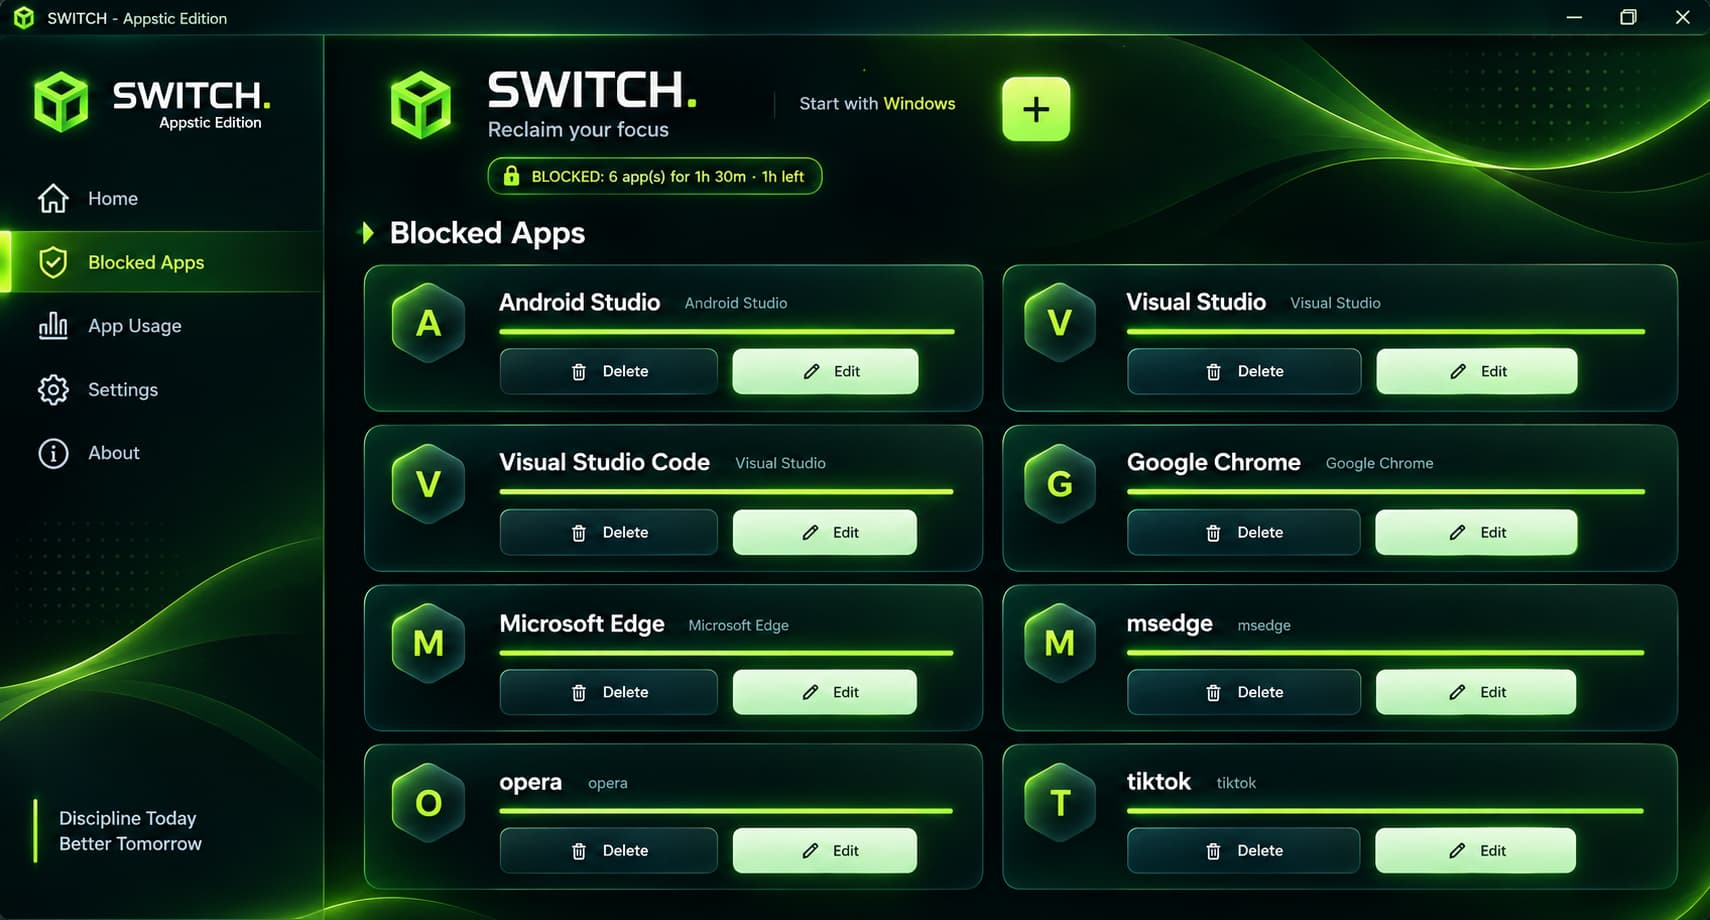
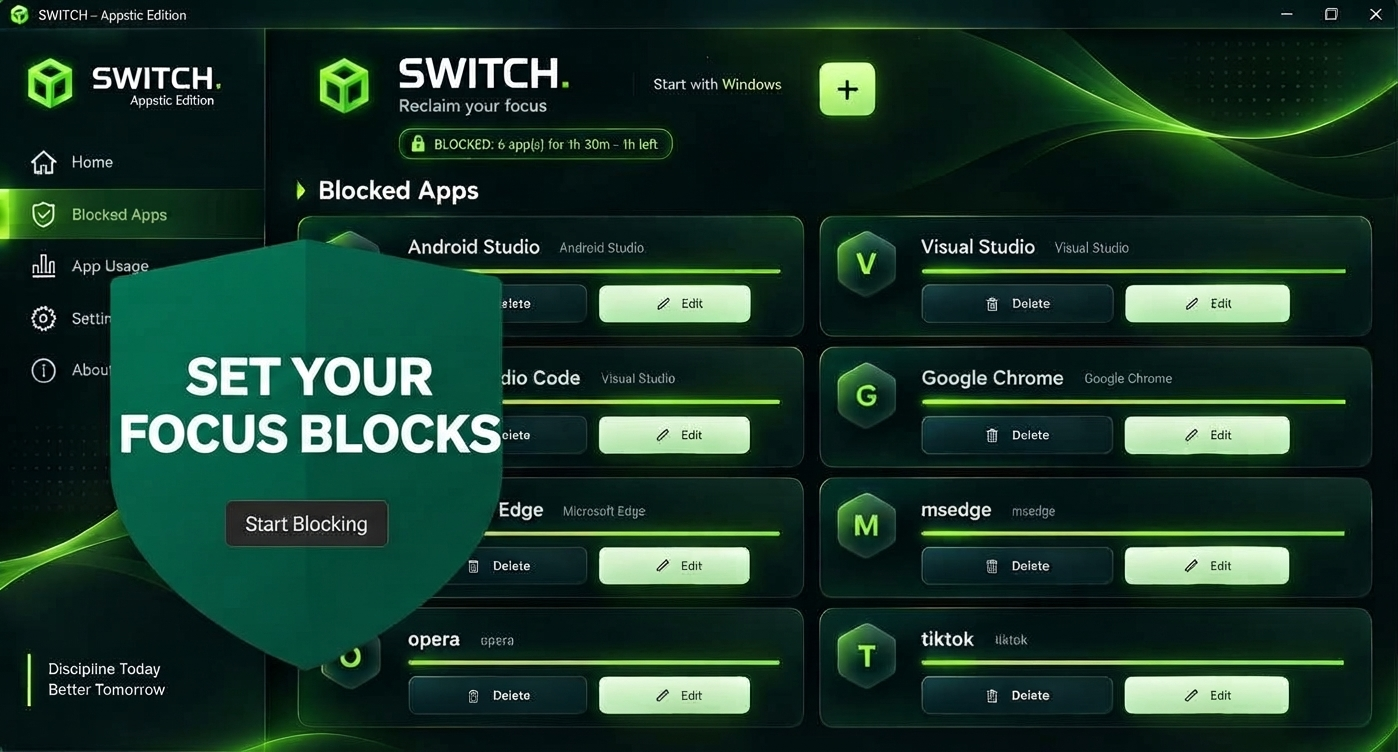
updated second hero image and the section 2  heading

diff --git a/src/Components/Hero.jsx b/src/Components/Hero.jsx
@@ -10,7 +10,6 @@ const slides = [
   },
   {
     image: switchAppBg,
-    title: "SET YOUR FOCUS BLOCKS",
     isAppView: true,
   },
   {
@@ -39,11 +38,12 @@ const Hero = () => {
   }, []);
 
   const slide = slides[currentStep];
+  const isSecondSlide = currentStep === 1;
 
   return (
     <section className="relative flex min-h-screen w-full items-end justify-start overflow-hidden pb-16 pl-8 lg:pl-20 pt-20 bg-black">
 
-      {/* 1. CLEAN BACKGROUND (NO GLOBAL DARKENING) */}
+      {/* 1. BACKGROUND WITH PULLED-BACK ZOOM FOR THE APP VIEW */}
       <div className="absolute inset-0 z-0 overflow-hidden bg-black">
         {slides.map((s, index) => (
           <div
@@ -54,55 +54,72 @@ const Hero = () => {
             <img
               src={s.image}
               alt="Switch Background"
-              className="h-full w-full object-cover object-center scale-110"
+              className={`h-full w-full object-cover object-center transition-transform duration-1000 ${index === 1 ? "scale-95" : "scale-110"
+                }`}
             />
           </div>
         ))}
       </div>
 
-      {/* 2. LOCALIZED FROSTED CONTAINER (ONLY AFFECTS TEXT AREA) */}
-      <div
-        className="relative z-30 p-8 sm:p-14 max-w-5xl bg-emerald-950/20 backdrop-blur-md border-l border-emerald-500/20"
-        style={{
-          maskImage: "radial-gradient(circle at 30% 50%, black 30%, rgba(0,0,0,0.6) 60%, transparent 90%)",
-          WebkitMaskImage: "radial-gradient(circle at 30% 50%, black 30%, rgba(0,0,0,0.6) 60%, transparent 90%)",
-        }}
-      >
-
-        {/* Brand Logo Header Badge */}
-        <div className="flex items-center gap-3 mb-6 transition-all duration-500">
-          <div className="w-10 h-10 rounded-2xl bg-white/10 backdrop-blur-xl border border-white/20 flex items-center justify-center shadow-lg">
-            <span className="text-emerald-400 font-black text-base tracking-tighter">S</span>
+      {/* 2. DYNAMIC TEXT CONTAINER (ONLY FOR SLIDE 1 & 3) */}
+      {!isSecondSlide && (
+        <div
+          className="relative z-30 p-8 sm:p-14 transition-all duration-700 bg-emerald-950/20 backdrop-blur-md border-l border-emerald-500/20 max-w-5xl"
+          style={{
+            maskImage: "radial-gradient(circle at 30% 50%, black 30%, rgba(0,0,0,0.6) 60%, transparent 90%)",
+            WebkitMaskImage: "radial-gradient(circle at 30% 50%, black 30%, rgba(0,0,0,0.6) 60%, transparent 90%)",
+          }}
+        >
+          {/* Brand Logo Header Badge */}
+          <div className="flex items-center gap-3 mb-6 transition-all duration-500">
+            <div className="w-10 h-10 rounded-2xl bg-white/15 backdrop-blur-xl border border-white/20 flex items-center justify-center shadow-lg">
+              <span className="text-emerald-400 font-black text-base tracking-tighter">S</span>
+            </div>
+            <span className="text-white font-black tracking-widest text-sm font-mono [text-shadow:_0_2px_12px_rgb(0_0_0_/_90%)]">
+              SWITCH
+            </span>
           </div>
-          <span className="text-white font-black tracking-widest text-sm font-mono [text-shadow:_0_2px_12px_rgb(0_0_0_/_90%)]">
-            SWITCH
-          </span>
-        </div>
 
-        {/* Title Swap */}
-        <div className="transition-all duration-700 ease-out">
-          <h1 className={`font-black uppercase tracking-[-0.04em] text-white drop-shadow-[0_10px_30px_rgba(0,0,0,0.9)] ${slide.isAppView ? "text-[clamp(2.5rem,7vw,7rem)] leading-[0.9]" : "text-[clamp(3rem,9vw,9.5rem)] leading-[0.85]"
-            }`}>
-            {slide.title}
-          </h1>
-        </div>
+          {/* Title Swap */}
+          <div className="transition-all duration-700 ease-out">
+            <h1 className="font-black uppercase tracking-[-0.04em] text-white drop-shadow-[0_10px_30px_rgba(0,0,0,0.9)] text-[clamp(3rem,9vw,9.5rem)] leading-[0.85]">
+              {slide.title}
+            </h1>
+          </div>
 
-        {/* Download Button */}
-        <div className="mt-8 flex items-center gap-4">
+          {/* Download Button */}
+          <div className="mt-8 flex items-center gap-4">
+            <a
+              href="https://github.com/chukstechstack/SwitchInstaller/releases/latest/download/SwitchInstaller.msi"
+              download
+              className="group relative inline-flex items-center gap-3 rounded-2xl bg-white/10 backdrop-blur-xl border border-white/25 px-8 py-5 text-sm font-black uppercase tracking-wider text-white shadow-2xl transition-all duration-300 hover:bg-emerald-400 hover:text-black hover:border-emerald-300 hover:scale-[1.02] overflow-hidden"
+            >
+              <span className="absolute inset-0 bg-gradient-to-r from-white/0 via-white/20 to-white/0 translate-x-[-100%] group-hover:translate-x-[100%] transition-transform duration-700" />
+              <span className="relative z-10">Download for PC </span>
+              <svg className="relative z-10 h-4 w-4 text-emerald-300 transition-colors duration-300 group-hover:text-black" fill="none" viewBox="0 0 24 24" stroke="currentColor">
+                <path strokeLinecap="round" strokeLinejoin="round" strokeWidth={3} d="M4 16v1a3 3 0 003 3h10a3 3 0 003-3v-1m-4-4l-4 4m0 0l-4-4m4 4V4" />
+              </svg>
+            </a>
+          </div>
+        </div>
+      )}
+
+      {/* 3. DOWNLOAD BUTTON FOR SECOND SLIDE (FITS OVER THE CLEAN IMAGE) */}
+      {isSecondSlide && (
+        <div className="absolute bottom-16 left-8 lg:left-20 z-30 flex items-center gap-4 transition-all duration-700">
           <a
             href="https://github.com/chukstechstack/SwitchInstaller/releases/latest/download/SwitchInstaller.msi"
             download
-            className="group relative inline-flex items-center gap-3 rounded-2xl bg-white/10 backdrop-blur-xl border border-white/25 px-8 py-5 text-sm font-black uppercase tracking-wider text-white shadow-2xl transition-all duration-300 hover:bg-emerald-400 hover:text-black hover:border-emerald-300 hover:scale-[1.02] overflow-hidden"
+            className="group relative inline-flex items-center gap-3 rounded-2xl bg-black/40 backdrop-blur-xl border border-white/25 px-8 py-5 text-sm font-black uppercase tracking-wider text-white shadow-2xl transition-all duration-300 hover:bg-emerald-400 hover:text-black hover:border-emerald-300 hover:scale-[1.02] overflow-hidden"
           >
             <span className="absolute inset-0 bg-gradient-to-r from-white/0 via-white/20 to-white/0 translate-x-[-100%] group-hover:translate-x-[100%] transition-transform duration-700" />
-            <span className="relative z-10">Download for PC (.msi)</span>
+            <span className="relative z-10">Download for PC </span>
             <svg className="relative z-10 h-4 w-4 text-emerald-300 transition-colors duration-300 group-hover:text-black" fill="none" viewBox="0 0 24 24" stroke="currentColor">
               <path strokeLinecap="round" strokeLinejoin="round" strokeWidth={3} d="M4 16v1a3 3 0 003 3h10a3 3 0 003-3v-1m-4-4l-4 4m0 0l-4-4m4 4V4" />
             </svg>
           </a>
         </div>
-
-      </div>
+      )}
 
       {/* Pagination Dots */}
       <div className="absolute bottom-6 right-8 z-30 flex gap-2">
@@ -110,7 +127,9 @@ const Hero = () => {
           <button
             key={dotIndex}
             onClick={() => setCurrentStep(dotIndex === 0 ? 0 : 1)}
-            className={`h-1.5 rounded-full transition-all duration-500 ${(currentStep === dotIndex) || (currentStep === 2 && dotIndex === 0) ? "w-8 bg-white" : "w-2 bg-white/40"
+            className={`h-1.5 rounded-full transition-all duration-500 ${(currentStep === dotIndex) || (currentStep === 2 && dotIndex === 0)
+              ? "w-8 bg-white"
+              : "w-2 bg-white/40"
               }`}
           />
         ))}

diff --git a/src/Components/Features.jsx b/src/Components/Features.jsx
@@ -10,22 +10,11 @@ const Features = () => {
                 {/* Editorial Header */}
                 <div className="mb-24 border-b border-zinc-300 pb-16">
                     <div className="flex items-center justify-between mb-8 flex-wrap gap-4">
-                        {/* Security Badge */}
-                        <div className="inline-flex items-center gap-2 px-3 py-1 rounded-full bg-emerald-500/10 border border-emerald-500/20">
-                            <svg
-                                className="w-3.5 h-3.5 text-emerald-600"
-                                viewBox="0 0 24 24"
-                                fill="none"
-                                stroke="currentColor"
-                                strokeWidth="2.5"
-                                strokeLinecap="round"
-                                strokeLinejoin="round"
-                            >
-                                <path d="M12 22s8-4 8-10V5l-8-3-8 3v7c0 6 8 10 8 10z" />
-                                <path d="M9 12l2 2 4-4" />
-                            </svg>
-                            <span className="font-mono text-[10px] uppercase tracking-wider font-bold text-emerald-800">
-                                SECURE_SYSTEM_ENFORCEMENT
+                        {/* System Utility Badge */}
+                        <div className="inline-flex items-center gap-2.5 px-3.5 py-1.5 rounded-full bg-zinc-900 border border-zinc-800 shadow-sm">
+                            <span className="w-2 h-2 rounded-full bg-emerald-500 animate-pulse" />
+                            <span className="text-emerald-400 font-mono text-xs tracking-widest uppercase font-semibold">
+                                SYSTEM_WATCHDOG ACTIVE
                             </span>
                         </div>
 
@@ -36,11 +25,16 @@ const Features = () => {
 
                     <div className="grid grid-cols-1 lg:grid-cols-12 gap-12 items-end">
                         <div className="lg:col-span-8">
-                            <h2 className="text-[clamp(2.8rem,6.5vw,7rem)] font-extrabold uppercase tracking-[-0.05em] leading-[0.9] text-zinc-950">
-                                LOCK DISTRACTIONS.<br />
-                                <span className="relative inline-block mt-2">
-                                    <span className="relative z-10 text-transparent bg-clip-text bg-gradient-to-r from-emerald-950 via-zinc-800 to-zinc-500 font-mono tracking-tight">
-                                        ENFORCE_FOCUS()
+                            <h2 className="text-[clamp(2.8rem,6.5vw,7rem)] font-black uppercase tracking-[-0.04em] leading-[0.95] text-zinc-950">
+                                LOCK DISTRACTIONS.
+                                <br />
+                                <span className="relative inline-flex items-center gap-3 mt-3">
+                                    {/* System Lock Icon Accent */}
+                                    <svg className="w-10 h-10 sm:w-14 sm:h-14 text-emerald-600 shrink-0" fill="none" viewBox="0 0 24 24" stroke="currentColor">
+                                        <path strokeLinecap="round" strokeLinejoin="round" strokeWidth={2.5} d="M12 15v2m-6 4h12a2 2 0 002-2v-6a2 2 0 00-2-2H6a2 2 0 00-2 2v6a2 2 0 002 2zm10-10V7a4 4 0 00-8 0v4h8z" />
+                                    </svg>
+                                    <span className="text-transparent bg-clip-text bg-gradient-to-r from-emerald-600 via-zinc-900 to-zinc-800 font-mono tracking-tight">
+                                        ENFORCE_FOCUS<span className="text-emerald-500 animate-pulse">()</span>
                                     </span>
                                 </span>
                             </h2>
@@ -58,7 +52,6 @@ const Features = () => {
                 <div className="mb-28">
                     <div className="flex flex-col md:flex-row md:items-end justify-between mb-6 gap-4">
                         <div>
-                            <span className="font-mono text-xs text-emerald-600 font-bold tracking-widest uppercase">// MODULE 01 — ENFORCEMENT ENGINE</span>
                             <h3 className="text-3xl sm:text-4xl font-black uppercase tracking-tight text-zinc-950 mt-1">
                                 Active Process & App Enforcement
                             </h3>
@@ -95,7 +88,6 @@ const Features = () => {
                 <div>
                     <div className="flex flex-col md:flex-row md:items-end justify-between mb-6 gap-4">
                         <div>
-                            <span className="font-mono text-xs text-emerald-600 font-bold tracking-widest uppercase">// MODULE 02 — RULE CONFIGURATION</span>
                             <h3 className="text-3xl sm:text-4xl font-black uppercase tracking-tight text-zinc-950 mt-1">
                                 Granular Block Configuration
                             </h3>

diff --git a/src/Components/Footer.jsx b/src/Components/Footer.jsx
@@ -54,7 +54,7 @@ const Footer = () => {
 
                     {/* Column 2: Stunning Bold Social Cards (GitHub & LinkedIn) */}
                     <div>
-                        <h4 className="font-mono text-xs text-zinc-500 font-bold uppercase tracking-widest mb-6">// DIRECT CHANNELS</h4>
+                        <h4 className="font-mono text-xs text-zinc-500 font-bold uppercase tracking-widest mb-6"> DIRECT CHANNELS</h4>
                         <div className="flex flex-col gap-3">
                             {/* GitHub Card */}
                             <a
@@ -102,7 +102,7 @@ const Footer = () => {
 
                     {/* Column 3: Tech Stack (Clean, Bold, No Heavy Backgrounds) */}
                     <div>
-                        <h4 className="font-mono text-xs text-zinc-500 font-bold uppercase tracking-widest mb-6">// ARCHITECTURE</h4>
+                        <h4 className="font-mono text-xs text-zinc-500 font-bold uppercase tracking-widest mb-6">ARCHITECTURE</h4>
                         <ul className="space-y-4 font-mono text-sm sm:text-base text-zinc-200 font-bold tracking-tight">
                             <li className="hover:text-emerald-400 transition-colors cursor-default">• WPF Desktop UI</li>
                             <li className="hover:text-emerald-400 transition-colors cursor-default">• .NET 10 Framework</li>
@@ -113,7 +113,7 @@ const Footer = () => {
 
                     {/* Column 4: Contact / Email */}
                     <div>
-                        <h4 className="font-mono text-xs text-zinc-500 font-bold uppercase tracking-widest mb-6">// INQUIRIES</h4>
+                        <h4 className="font-mono text-xs text-zinc-500 font-bold uppercase tracking-widest mb-6"> INQUIRIES</h4>
                         <p className="text-zinc-300 text-sm font-bold mb-2">Get in touch:</p>
                         <a href="mailto:chuks.techstack@gmail.com" className="text-emerald-400 font-mono text-sm underline underline-offset-4 hover:text-emerald-300 transition-colors">
                             chuks.techstack@gmail.com
